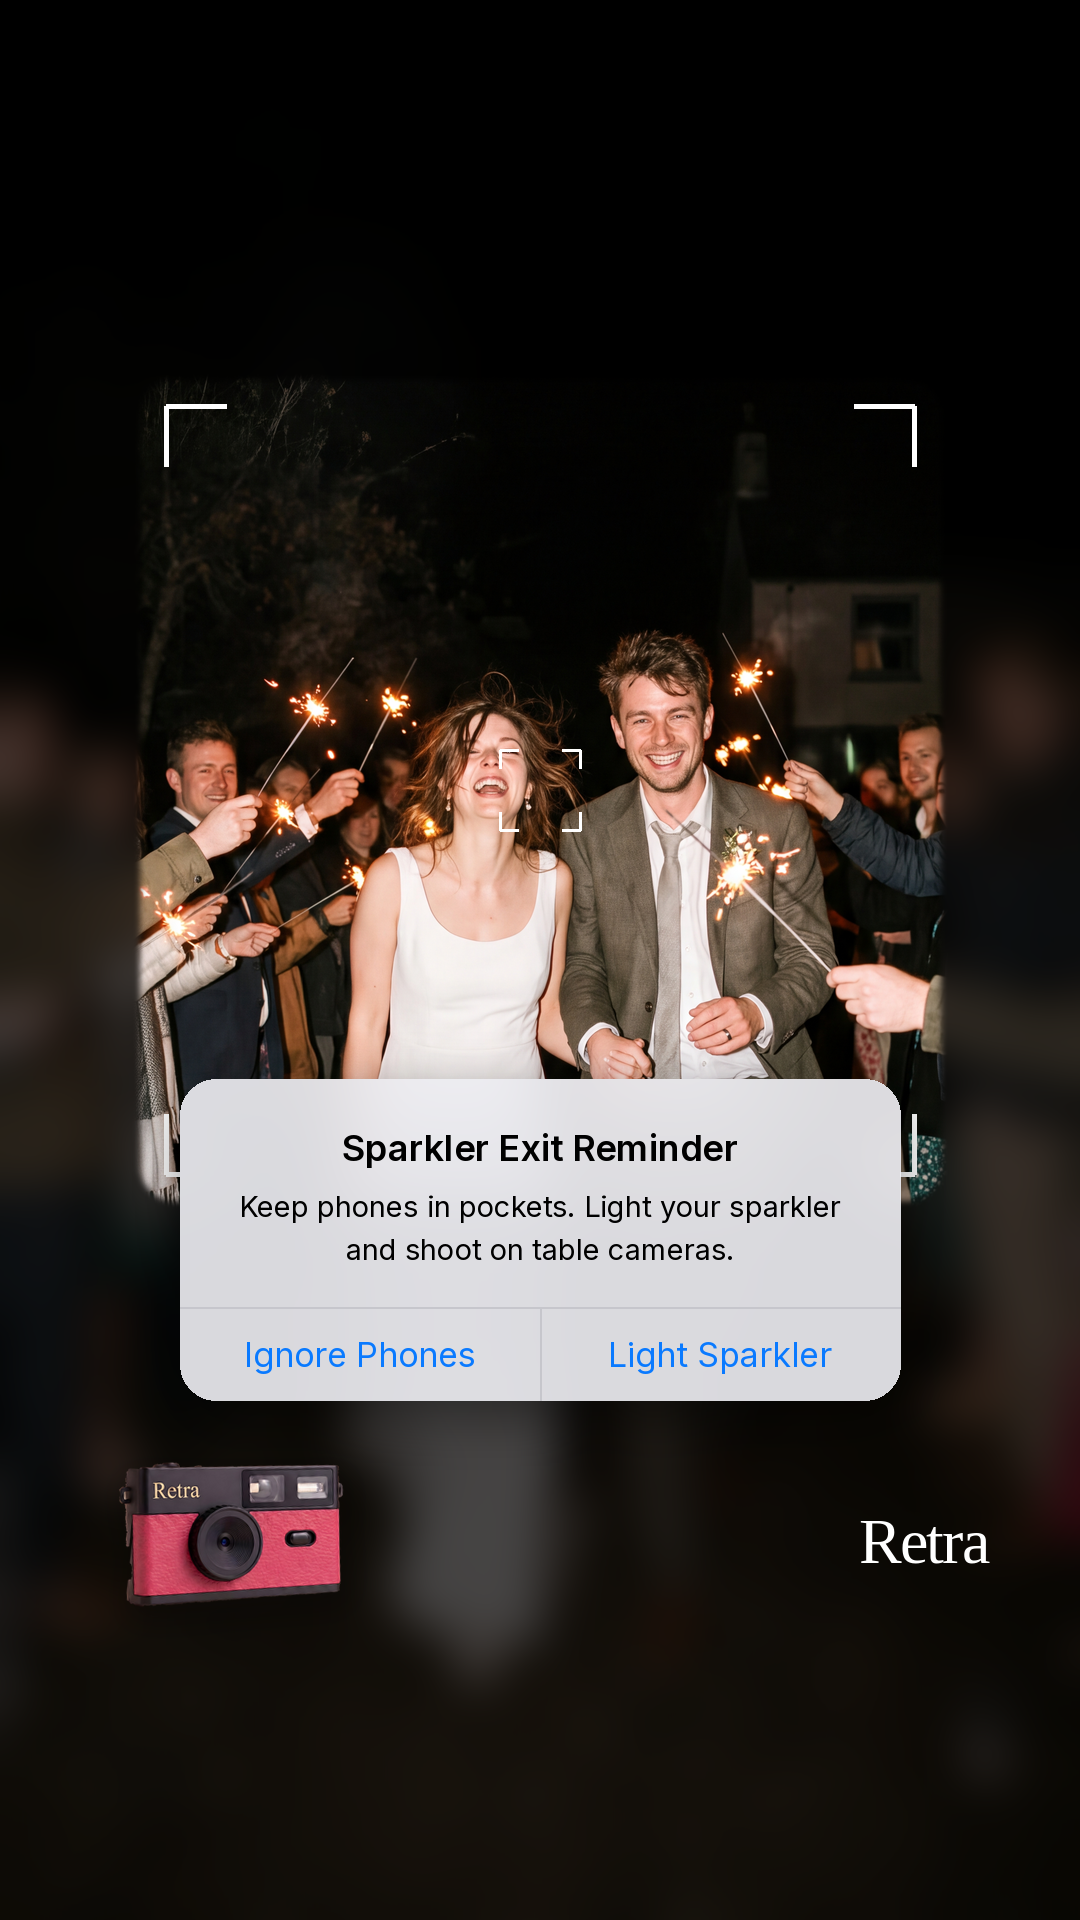
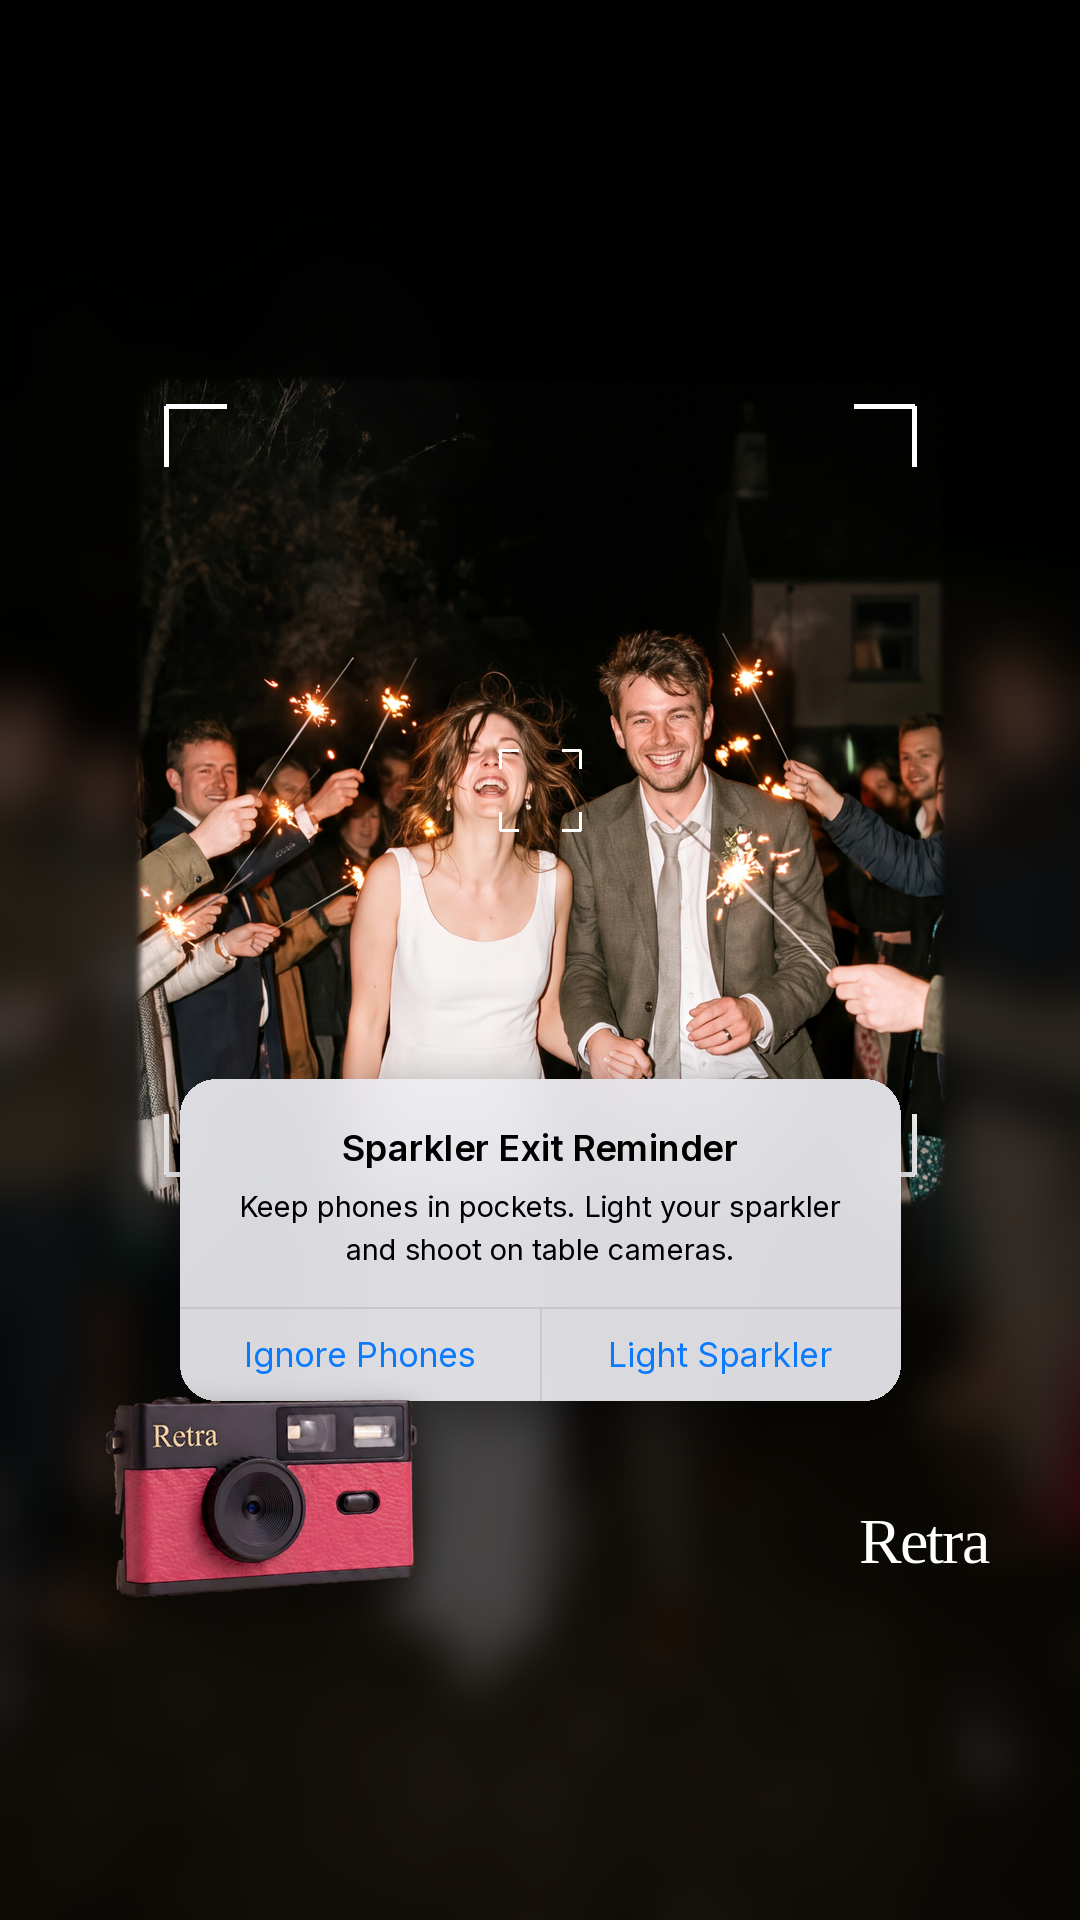
Retra W49: W6-W9 in Vintage, Black & White and Film looks; bigger camera
Claude-Session: https://claude.ai/code/session_01Mp8pTs9zpTh5aGe4znSQmT

Changed region(s): [[0.0917, 0.7188, 0.3972, 0.8438]]

diff --git a/ads/brands/retra/weeks/2026-W49-angles/wedding.py b/ads/brands/retra/weeks/2026-W49-angles/wedding.py
@@ -170,10 +170,17 @@ def w5(c):
 
 
 # ---------------------------------------------------------------- W6-W9 through the Retra lens + iOS alert (W4 style)
+LOOK = None
+LOOKS = {"vintage": "Vintage", "bw": "Black & White", "film": "Film"}
+
+
 def lens(c, k, colour, cen=(0.5, 0.45)):
     """Narrowed vision: the scene sharp inside a rounded frame window, blurred and darkened outside, frame marks,
     iOS alert over the lower edge, the camera + wordmark in the dark margin."""
     base = b2.full(k, cen)
+    if LOOK:  # Sam: versions in Retra's looks (landing-page curves)
+        from compose_gallery import retra_filter
+        base = retra_filter(base, LOOK).convert("RGBA")
     out = base.filter(lib.ImageFilter.GaussianBlur(22))
     out = Image.blend(out.convert("RGB"), Image.new("RGB", out.size, (0, 0, 0)), 0.7).convert("RGBA")
     x0, y0, x1, y1 = 140, 380, 940, 1200
@@ -193,7 +200,10 @@ def lens(c, k, colour, cen=(0.5, 0.45)):
             d.line([(cx + sx * 40, cy + sy * 40), (cx + sx * 22, cy + sy * 40)], fill=(255, 255, 255, 200), width=3)
     ios_alert(img, S(c, "alert_title"), S(c, "alert_body"), y1 + 40, w=720,
               buttons=(S(c, "button_left"), S(c, "button_right")))
-    place(img, cam(colour, 230, -6), 230, 1535, shadow=0.5, blur=14, drop=(4, 12))
+    if LOOK:  # filter name pill in the frame's top-left corner
+        pill(img, LOOK, inter(28, "SemiBold"), x0 + 40 + measure(inter(28, "SemiBold"), LOOK) / 2 + 22, y0 + 104,
+             (20, 18, 16), (255, 236, 200), padx=22, pady=10)
+    place(img, cam(colour, 320, -6), 260, 1498, shadow=0.5, blur=16, drop=(4, 14))
     f = tinos(64, -0.03)
     draw_text(ImageDraw.Draw(img), (W - 90 - measure(f, "Retra"), 1505), "Retra", f, WHITE)
     lib.TEXT_BOXES.append((W - 300, 1505, W - 90, 1575))
@@ -223,12 +233,18 @@ SLUG = {"W1": "wedding-text-bubbles", "W2": "wedding-card-cta", "W3": "wedding-f
         "W9": "wedding-lens-guest-toast"}
 
 if __name__ == "__main__":
-    ids = sys.argv[1:] or list(BUILDERS)
-    for i in ids:
+    sys.path.insert(0, str(HERE.parents[1] / "gallery"))
+    args = sys.argv[1:] or list(BUILDERS)  # "W6:film" builds one look; "W6:all" builds the three looks
+    jobs = []
+    for a_ in args:
+        i, _, lk = a_.partition(":")
+        jobs += [(i, k_) for k_ in (LOOKS if lk == "all" else [lk])] if lk else [(i, None)]
+    for i, lk in jobs:
         lib.TEXT_BOXES.clear()
         c = COPY[i]
+        LOOK = LOOKS.get(lk)
         try:
-            print(save(BUILDERS[i](i), f"RET_A49_{i}_{c['funnel'].lower()}_{SLUG[i]}"))
+            print(save(BUILDERS[i](i), f"RET_A49_{i}_{c['funnel'].lower()}_{SLUG[i]}" + (f"_{lk}" if lk else "")))
         except Exception as e:  # noqa: BLE001
             import traceback
             traceback.print_exc()

diff --git a/ads/brands/retra/weeks/2026-W49-angles/README.md b/ads/brands/retra/weeks/2026-W49-angles/README.md
@@ -81,3 +81,5 @@ layouts: `wedding.py`. Sam wants 4:5 deliverables from here on. Sheet: `output/_
 W6-W9 (Sam: more like W4, shot through the lens): narrowed-vision frame (scene sharp in a window, blurred/dark outside,
 frame marks) + iOS alert + camera and wordmark. W6 sparkler exit / W8 confetti aisle (friends shoot the couple),
 W7 bridal party dancing / W9 table toast (couple shoots friends). Sheet: `output/_sheet_wedding_lens_4x5.jpg`.
+W6-W9 looks (Sam): each in Vintage / Black & White / Film (`python3 wedding.py W6:all`), filter-name pill in the frame,
+camera bigger. Files end `_vintage`, `_bw`, `_film`. Sheet: `output/_sheet_wedding_lens_looks_4x5.jpg`.
